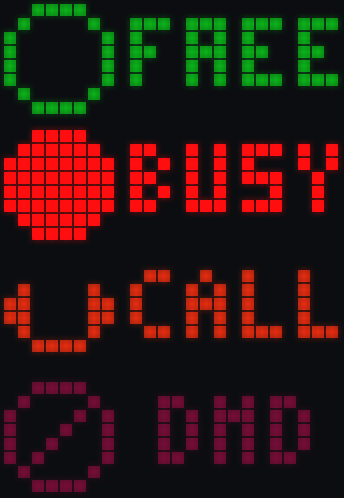
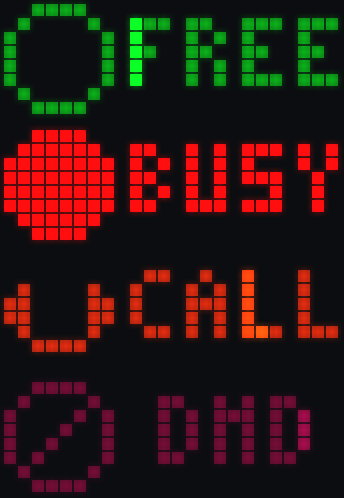
docs: re-render every image, and delete the menu they disagreed with
The GIFs and stills predate the font fix, the sheen fix and the settings
tree, so FREE still showed the old R, the status clips still had a dim dot
crawling along the bottom row, and menu.gif showed a four-entry menu the
device has not had since the tree landed.

That last one was not only stale art. panel still defined its own kMenu[]
and the list screens fell back to it whenever the model supplied nothing —
so the renderer was faithfully drawing a second, obsolete source of truth.
Deleted. The drawing layer now draws the list it is given and nothing when
given none, which is the only arrangement with one source of truth in it,
and a test pins the nothing.

Two layout faults the re-render exposed, neither of which any test would
have noticed:

An off toggle drew its icon at 45 of 255, which after gamma is black — the
screen read as a missing icon rather than an inactive one. 110 reads as
present but off, which is what dimming was for.

The setting rail spanned the full width while an icon is eight rows tall
and reaches row 7 itself, so the two were drawn over each other and the
rail's lit end was the part that lost. It is confined to the label area
now, which is where the menu's position ticks have always started.

The preview tool builds its rows from ui::kGroups and fills in the new
screens with real content, so a still of the Setting screen is a setting
rather than an empty box. Its placeholder SSID is made up on purpose:
[…]

diff --git a/tools/preview.cpp b/tools/preview.cpp
@@ -16,11 +16,22 @@
 #include "panel/flourish.h"
 #include "panel/framebuffer.h"
 #include "panel/patterns.h"
+#include "ui/settings_tree.h"
 #include "panel/renderer.h"
 #include "panel/screens.h"
 #include "panel/transition.h"
 
 using namespace panel;
+
+// The rows the Menu screen draws, taken from the real settings tree so a
+// rendered clip cannot show a menu the device does not have. `::ui::` because
+// the local UiState variables here are called `ui` and shadow the namespace.
+static std::vector<MenuEntry> group_rows() {
+  std::vector<MenuEntry> rows;
+  for (int i = 0; i < ::ui::kGroupCount; ++i) rows.push_back(::ui::kGroups[i].row);
+  return rows;
+}
+
 
 namespace {
 
@@ -135,6 +146,7 @@ void render_sheet(Pattern pat, const std::string& dir) {
   engine.params.minute = 25;
   engine.params.second = 37;
 
+
   Framebuffer fb;
   uint8_t grb[kNumLeds * 3];
   uint32_t t = 0;
@@ -209,6 +221,52 @@ void vary_state(Screen s, int frame, UiState& ui) {
     case Screen::Booting:
       ui.wifi_connected = (frame == 3);
       break;
+    case Screen::Menu:
+      ui.menu_index = static_cast<uint8_t>(frame % ::ui::kGroupCount);
+      break;
+    case Screen::Group: {
+      // The display group, which has enough settings in it to scroll.
+      const ::ui::SettingGroup& g = ::ui::kGroups[1];
+      static std::vector<MenuEntry> items;
+      items.clear();
+      for (int i = 0; i < g.count; ++i) items.push_back(g.items[i].row);
+      ui.list = items.data();
+      ui.list_count = static_cast<int>(items.size());
+      ui.menu_index = static_cast<uint8_t>(frame % g.count);
+      break;
+    }
+    case Screen::Setting: {
+      // A real setting, rendered the way the model renders it: the value
+      // arrives as text, so a still of this screen has to be built the same
+      // way or it is a picture of an empty box.
+      static const struct { const char* label; const char* text; float frac; }
+          kShown[] = {{"FLIP", "OFF", -1.0f},
+                      {"REST", "30M", 0.25f},
+                      {"PICK", "PLASMA", -1.0f},
+                      {"SETS", "4", 0.27f}};
+      const auto& k = kShown[frame % 4];
+      ui.set_icon = &kIconGear;
+      ui.set_label = k.label;
+      ui.set_text = k.text;
+      ui.set_tint = RGB(255, 200, 60);
+      ui.set_fraction = k.frac;
+      ui.set_on = k.text[1] == 'N';
+      break;
+    }
+    case Screen::Scene:
+      ui.scene = static_cast<uint8_t>(frame % scene_count());
+      break;
+    case Screen::WifiSetup:
+      ui.net_text = "PIXELBAR-A3F2";
+      break;
+    case Screen::WifiConnecting:
+      // A made-up name on purpose: these images ship in a public repo and
+      // there is no reason for them to name anybody's actual network.
+      ui.net_text = "HOME-WIFI";
+      break;
+    case Screen::WifiInfo:
+      ui.net_text = "192.168.1.42";
+      break;
     default:
       break;
   }
@@ -223,6 +281,9 @@ void render_screen_sheet(Screen s, const std::string& dir) {
   uint8_t grb[kNumLeds * 3];
   for (int frame = 0; frame < kFramesPerSheet; ++frame) {
     UiState ui;
+    static const std::vector<MenuEntry> rows = group_rows();
+    ui.list = rows.data();
+    ui.list_count = static_cast<int>(rows.size());
     ui.accent = RGB(255, 138, 31);
     ui.hour = 14;
     ui.minute = 25;
@@ -303,6 +364,9 @@ void render_clip(const Clip& c, const std::string& dir) {
   ScreenManager mgr;
   mgr.set_screen(c.screen);
   UiState ui;
+  static const std::vector<MenuEntry> rows = group_rows();
+  ui.list = rows.data();
+  ui.list_count = static_cast<int>(rows.size());
   ui.accent = RGB(255, 138, 31);
   ui.status = c.status;
   ui.hour = 14;
@@ -353,7 +417,8 @@ void render_clip(const Clip& c, const std::string& dir) {
       mgr.restart_with(ui, TransitionKind::DiskUp,
                        transition_seconds(TransitionKind::DiskUp));
       if (c.screen == Screen::Menu) {
-        ui.menu_index = static_cast<uint8_t>((ui.menu_index + 1) % kMenuCount);
+        ui.menu_index =
+            static_cast<uint8_t>((ui.menu_index + 1) % ui::kGroupCount);
       } else {
         ui.pick = static_cast<Status>((static_cast<int>(ui.pick) + 1) %
                                       static_cast<int>(Status::Count));

diff --git a/firmware/components/panel/src/screens.cpp b/firmware/components/panel/src/screens.cpp
@@ -270,13 +270,6 @@ bool status_uses_badge(Status s) { return !mini_text_fits(status_label(s)); }
 // The icons for apps, motion, touch and network are drawn and waiting in
 // icons.h. They arrive with the features behind them: a row that does nothing
 // when you press it teaches you that pressing does not work.
-const MenuEntry kMenu[] = {
-    {&kIconBusy, "STAT", RGB(255, 30, 15), false},
-    {&kIconHourglass, "TIME", RGB(255, 138, 31), false},
-    {&kIconSunCore, "DIM", RGB(255, 200, 60), false},
-    {&kIconPalette, "HUE", RGB(140, 60, 255), false},
-};
-const int kMenuCount = static_cast<int>(sizeof(kMenu) / sizeof(kMenu[0]));
 
 void draw_badge(Framebuffer& fb, int x0, int y0, int w, int h, RGB fill) {
   if (w <= 0 || h <= 0) return;
@@ -477,9 +470,9 @@ void draw_screen(Framebuffer& fb, Screen s, const UiState& ui, const Anim& a,
       // Two levels of the same list. What differs is only what is in it, which
       // the model supplies, so both draw through one function rather than
       // drifting apart as one of them is tweaked.
-      const MenuEntry* items = ui.list ? ui.list : kMenu;
-      const int n = ui.list ? ui.list_count : kMenuCount;
-      if (n <= 0) break;
+      const MenuEntry* items = ui.list;
+      const int n = ui.list_count;
+      if (!items || n <= 0) break;
       int idx = ui.menu_index;
       if (idx < 0 || idx >= n) idx = 0;
       draw_list_row(fb, items[idx], idx, n, a);
@@ -501,8 +494,13 @@ void draw_screen(Framebuffer& fb, Screen s, const UiState& ui, const Anim& a,
         // A toggle that is off is drawn dim rather than absent: the icon is
         // what tells you which setting you are looking at, and hiding it to
         // show a state would cost the identity to show the value.
+        // An off toggle is dimmed, not hidden: the icon is what tells you which
+        // setting you are looking at, and the word beside it already says the
+        // value. 45 was too far — after gamma it rendered as black, so the
+        // screen read as a missing icon rather than an inactive one.
         draw_icon(fb, kIconX, 0, *ui.set_icon,
-                  ui.set_on || ui.set_fraction >= 0.0f ? lit : ui.set_tint.scaled(45));
+                  ui.set_on || ui.set_fraction >= 0.0f ? lit
+                                                       : ui.set_tint.scaled(110));
       }
 
       // The value fills the label box. Long choices scroll rather than clip,
@@ -522,8 +520,22 @@ void draw_screen(Framebuffer& fb, Screen s, const UiState& ui, const Anim& a,
 
       // The rail, for anything with a range. A toggle has nowhere to be along
       // a line, so it does not get one.
+      //
+      // Confined to the label area rather than the full width. An icon is
+      // eight rows tall and so reaches row 7 itself, and a full-width rail ran
+      // straight through the bottom of it — the two were drawn over each other
+      // and the rail's lit end was the part that disappeared. The menu's
+      // position ticks have always started at kLabelX for the same reason.
       if (ui.set_fraction >= 0.0f) {
-        draw_bar(fb, 7, 7, ui.set_fraction, lit, ui.set_tint.scaled(28));
+        const int x0 = kLabelX;
+        const int span = kWidth - x0;
+        const float edge = ui.set_fraction * static_cast<float>(span);
+        for (int i = 0; i < span; ++i) {
+          float cov = edge - static_cast<float>(i);
+          if (cov < 0.0f) cov = 0.0f;
+          if (cov > 1.0f) cov = 1.0f;
+          fb.set(x0 + i, 7, cov > 0.5f ? lit : ui.set_tint.scaled(28));
+        }
       }
       break;
     }

diff --git a/test/test_panel.cpp b/test/test_panel.cpp
@@ -670,16 +670,21 @@ static void test_screens() {
   const RGB cur = fb.get(kWidth / 2, 7);
   CHECK(cur.r == cur.g && cur.g == cur.b);
 
-  CASE("every menu label fits beside its icon");
-  for (int i = 0; i < kMenuCount; ++i) {
-    CHECK(kMenu[i].icon != nullptr);
-    CHECK(kMenu[i].label != nullptr);
-    CHECK(mini_text_fits(kMenu[i].label));
-  }
-
-  CASE("the menu draws something for every entry, and stays on the panel");
-  for (int i = 0; i < kMenuCount; ++i) {
+  // The menu's contents live in ui::kGroups; test_ui checks the labels fit and
+  // that every entry leads somewhere. What is checked here is the drawing: a
+  // list row is legible and stays inside the panel's power budget, whatever
+  // list it is handed.
+  CASE("a list row draws something, and stays on the panel");
+  const MenuEntry kRows[] = {
+      {&kIconSunCore, "DISP", RGB(255, 200, 60), false},
+      {&kIconHourglass, "TIME", RGB(255, 138, 31), false},
+      {&kIconGear, "CLCK", RGB(200, 200, 255), true},
+  };
+  const int kRowCount = static_cast<int>(sizeof(kRows) / sizeof(kRows[0]));
+  for (int i = 0; i < kRowCount; ++i) {
     UiState mu;
+    mu.list = kRows;
+    mu.list_count = kRowCount;
     mu.menu_index = static_cast<uint8_t>(i);
     ScreenAnim ma;
     Anim man;
@@ -697,6 +702,8 @@ static void test_screens() {
   CASE("an out-of-range menu index falls back rather than reading past the table");
   {
     UiState mu;
+    mu.list = kRows;
+    mu.list_count = kRowCount;
     mu.menu_index = 200;
     ScreenAnim ma;
     Anim man;
@@ -704,6 +711,23 @@ static void test_screens() {
     Framebuffer mfb;
     draw_screen(mfb, Screen::Menu, mu, man, ma);
     CHECK(lit_count(mfb) > 4);
+  }
+
+  CASE("a list screen with no list draws nothing rather than something wrong");
+  {
+    // There used to be a kMenu[] in the panel to fall back on, and once the
+    // settings tree landed it was a four-entry menu the device no longer had —
+    // drawn whenever the model supplied nothing. Drawing nothing is the honest
+    // answer, and it is what makes the model the only source of the list.
+    UiState mu;  // no list, no count
+    ScreenAnim ma;
+    Anim man;
+    man.dt = 0.01f;
+    Framebuffer mfb;
+    draw_screen(mfb, Screen::Menu, mu, man, ma);
+    CHECK_EQ(lit_count(mfb), 0);
+    draw_screen(mfb, Screen::Group, mu, man, ma);
+    CHECK_EQ(lit_count(mfb), 0);
   }
 
   CASE("the boot sequence runs, stays on the panel and fits the budget");

diff --git a/firmware/components/panel/include/panel/screens.h b/firmware/components/panel/include/panel/screens.h
@@ -31,15 +31,19 @@ RGB status_color(Status s);
 // a cursor over a hue it has no way to apply.
 RGB accent_from_hue(float hue);
 
-// The top-level menu: an icon and a word each, in the order they are shown.
+// One row of a scrolled list: an icon and a word.
+//
+// The list itself lives in `ui`, not here. There used to be a kMenu[] in this
+// file as well, and once the settings tree landed it was a four-entry menu the
+// device no longer had — still rendered whenever nothing else was supplied.
+// The drawing layer now draws the list it is given and nothing when given
+// none, which is the only arrangement with one source of truth in it.
 struct MenuEntry {
   const Icon* icon;
   const char* label;
   RGB color;
   bool spins;  // drawn through draw_sprite_rotated, so it turns while you look
 };
-extern const MenuEntry kMenu[];
-extern const int kMenuCount;
 
 // One row of a scrolled list: icon, label, and ticks showing the position.
 // Shared by Menu and Group, which differ only in what they are a list of —

diff --git a/firmware/components/ui/src/app.cpp b/firmware/components/ui/src/app.cpp
@@ -512,7 +512,8 @@ void App::adjust(int detents, float rate) {
       // three transitions in thirty milliseconds, which is what made a fast
       // turn feel like the panel was fighting itself.
       // Both levels of the list scroll identically; only the length differs.
-      const int n = ui_.list_count > 0 ? ui_.list_count : panel::kMenuCount;
+      const int n = ui_.list_count;
+      if (n <= 0) break;
       const int next = wrap_index(static_cast<int>(ui_.menu_index) + detents, n);
       const TransitionKind k = detents > 0 ? TransitionKind::DiskUp : TransitionKind::DiskDown;
       mgr_.restart_with(ui_, k, panel::transition_seconds(k));

diff --git a/README.md b/README.md
@@ -140,6 +140,10 @@ settings, and everything the device stores is reachable from the knob.
 | **TAP** | touch lock |
 | **CLCK** | 12 or 24 hour |
 
+| | |
+| --- | --- |
+| ![menu](docs/screens/menu.png) | ![setting](docs/screens/setting.png) |
+
 A setting is a row in a table rather than a screen of its own: what it is
 called, what it looks like, what kind of value it holds, and an id that one
 get/set pair switches on. One generic screen serves toggles, numbers and
@@ -171,6 +175,8 @@ out of its own setup on the next boot. If a stored network then becomes
 unreachable for six attempts — you moved house, the password changed — the
 setup network comes back, because the web page needs a network and the panel
 cannot type a password.
+
+![wifi setup](docs/screens/wifisetup.png)
 
 The panel says which of the three it is doing: the network to join, the network
 being tried, or the address to visit. All three are one layout — a signal mark
